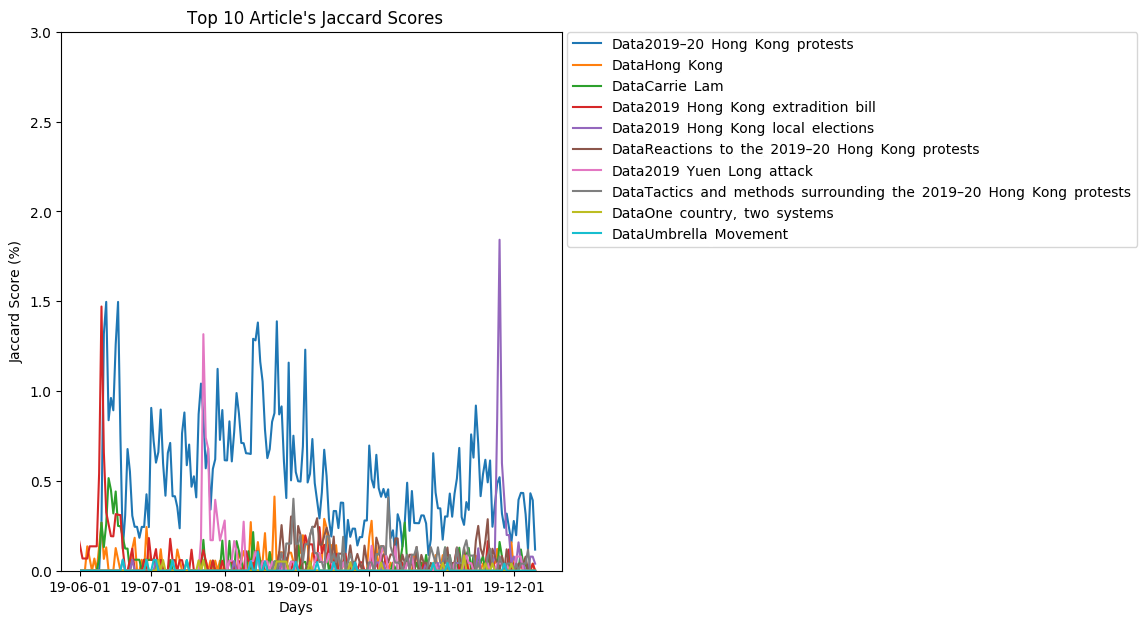
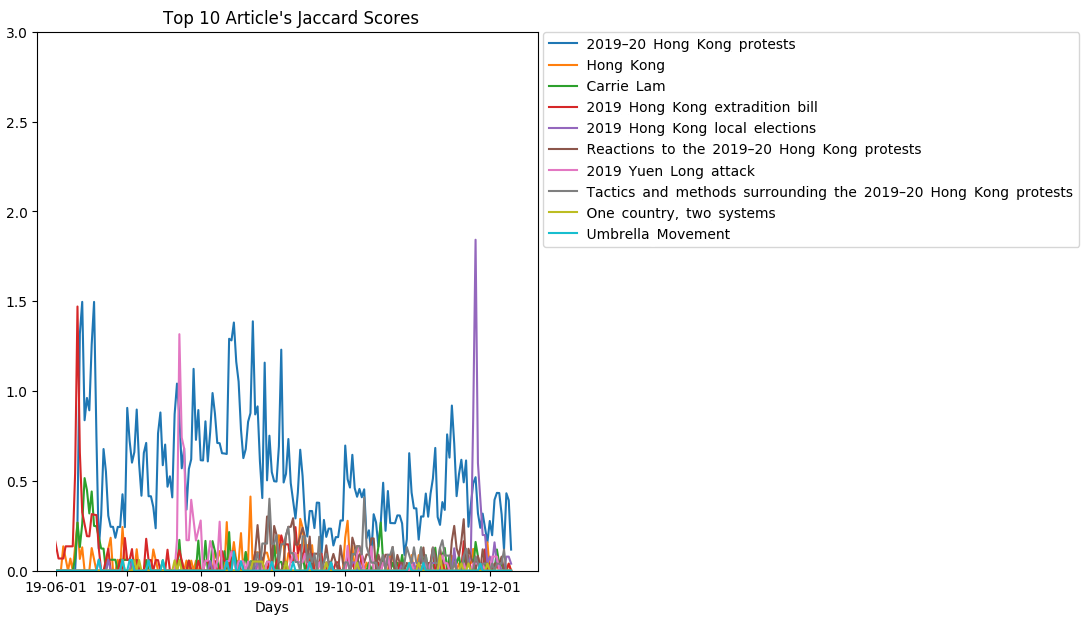
Added documentation to my files

diff --git a/jaccard.py b/jaccard.py
@@ -1,7 +1,7 @@
 
 '''
-    Plots Jaccard similarity of editors.
-
+    Plots Jaccard similarity multiline graph for Top 10 Articles.
+    Plots Jaccard similarity graph for a target article
     Written by Junyi Min.
 '''
 
@@ -89,6 +89,7 @@ for title in titleArray:
     if title[0:4] == "Data":
         dataTitleArray.append(title[:-4])
 
+#Makes multiline plot for jaccard similarity for Top 10 Articles
 def makeTop10Figures():
     for i in range (0, 10): #top ten articles is first 10 in the list
         title = dataTitleArray[i]
@@ -120,6 +121,7 @@ def makeTop10Figures():
         plt.savefig(os.path.join(plotPath, subpath, figureTitle + ".png"), bbox_inches="tight")
     plt.close()
 
+#Takes in an article title and returns a list of dates and its corresponding Jaccard score for the specific article
 def top10Helper(title):
     article = dataDict[title]
     firstDay = dt.fromtimestamp(int(time.mktime(dt.strptime("2019-05-01", "%Y-%m-%d").timetuple()))).date()
@@ -148,7 +150,7 @@ def top10Helper(title):
 
     return answer
 
-# test get next day epoch time
+# Makes jaccard score for a target article
 def makeDayXJaccardFigure(title):
     article = dataDict[title]
     firstDay = dt.fromtimestamp(int(time.mktime(dt.strptime("2018-12-10", "%Y-%m-%d").timetuple()))).date()
@@ -197,6 +199,10 @@ def makeDayXJaccardFigure(title):
         plt.savefig(os.path.join(plotPath, subpath, title + ".png"), bbox_inches="tight")
     plt.close()
 
+#Receives targetTitle, the target article's title, and returns a dictionary
+#Where the key is a date, and the value is the set of editors that edits in all
+#non-target articles on that date
+#Firstday and lastday represents the start and end of analysis for sanity check
 def returnAllOtherDict(targetTitle, firstDay, lastDay):
     allOtherDict = dict()
     #Setup
@@ -238,6 +244,11 @@ def returnAllOtherDict(targetTitle, firstDay, lastDay):
                     dailyEditorSet = set()
     return allOtherDict
 
+
+#Receives targetTitle, the target article's title, and returns a dictionary
+#Where the key is a date, and the value is the set of editors that edits in
+#the target article on that date.
+#Firstday and lastday represents the start and end of analysis for sanity check
 def returnTargetDict(article, firstDay, lastDay):
     dailyEditorSet = set()
     sizeOfArticle = article.shape[0]
@@ -274,6 +285,9 @@ def returnTargetDict(article, firstDay, lastDay):
             dailyEditorSet = set()
     return targetDict
 
+#Using the parameters, calculates the Jaccard score for the target articles
+#And returns a list of Jaccard score corresponding to the order of the dates in
+#input "days"
 def calculateAndPrintJaccard(days, targetDict, allOtherDict, firstDay, lastDay):
     jaccard = []
     jaccardAndEditor = [] #compiles a list of [date/jaccardScore/NumUniqueEditorsOfTargetArticle/NumUniqueEditorsOfOtherArticles] items
@@ -294,19 +308,7 @@ def calculateAndPrintJaccard(days, targetDict, allOtherDict, firstDay, lastDay):
         jaccardAndEditor.append(currItem)
         currItem = []
         setA = set()
-    #printPeaks(jaccardAndEditor, 10) #Finds top 10 peaks
     return jaccard
-
-
-def printPeaks(dataInput, num):
-    length = len(dataInput)
-    for i in range (length):
-        for j in range (0, length-i-1):
-            if dataInput[j][1]<dataInput[j+1][1]:
-                dataInput[j], dataInput[j+1] = dataInput[j+1], dataInput[j]
-    for i in range (0, 10):
-        print(dataInput[i])
-
 
 '''Testing below'''
 makeTop10Figures()

diff --git a/jaccard_editorpagecount.py b/jaccard_editorpagecount.py
@@ -1,6 +1,7 @@
 
 '''
-    Plots Jaccard editor similarity normalized for pages.
+    Plots Pagecount vs Number of Editors graph, with pagecount normalized (pagecount/active pages)
+    And Number of Editors log-transformed
 
     Written by Junyi Min.
 '''
@@ -133,21 +134,7 @@ def getEditorPagecount():
         item[1] = len(item[1])
     return resultList
 
-def printAveragePages():
-    sum = 0
-    resultList = getEditorPagecount()
-    size = len(resultList)
-    for item in resultList:
-        sum += item[1]
-    print(sum/size)
-
-def printMedianPages():
-    resultList = getEditorPagecount()
-    size = len(resultList)
-    size = int(size/2)
-    print(resultList[size])
-
-
+#Bubble sorts a list of dictionary pairs
 def bubbleSortList(dataInput):
     length = len(dataInput)
     for i in range (length):
@@ -156,6 +143,7 @@ def bubbleSortList(dataInput):
                 dataInput[j], dataInput[j+1] = dataInput[j+1], dataInput[j]
     return dataInput
 
+#Makes a multiline pagecount vs editors over time graph that is logtransformed
 def makeMultiLineGraph():
     data = getPlotData()
     print(data)
@@ -177,6 +165,9 @@ def makeMultiLineGraph():
         plt.savefig(os.path.join(plotPath, subpath, figureTitle + ".png"), bbox_inches="tight")
     plt.close()
 
+#Gets the data to plot in Editor/Pagecount graph
+#Returns xAxisElements: a list of pagecounts
+#And also yAxisElements: a list of number of editors that edit with that specific pagecount
 def getPlotData():
     list = getEditorPagecount()
     myDict = dict()
@@ -194,6 +185,7 @@ def getPlotData():
     returnVal = [xAxisElements, yAxisElements]
     return returnVal
 
+#Plots the number of editors that edit a certain amount of pages
 def makePagecountVSNumOfEditors():
     list = getEditorPagecount()
     myDict = dict()
@@ -231,12 +223,15 @@ def makePagecountVSNumOfEditors():
     if (not os.path.isfile(os.path.join(plotPath, subpath, figureTitle + ".png"))):
         plt.savefig(os.path.join(plotPath, subpath, figureTitle + ".png"), bbox_inches="tight")
     plt.close()
+
+#Log transforms a set of data
 def logTransform(data):
     returnData = []
     for item in data:
         returnData.append(math.log(item, 10))
     return returnData
 
+#Normalizes pagecount data by returning a list of data with pagecount divided by number of active articles
 def normalize(data, date):
     returnData = []
     for item in data:
@@ -273,8 +268,6 @@ endDate = dt.fromtimestamp(int(time.mktime(dt.strptime(end, "%Y-%m-%d").timetupl
 
 for i in range (0, 12):
     data = getPlotData()
-    print(data[0])
-    print(data[1])
     xAxis = normalize(data[0], endDate)
     yAxis = logTransform(data[1])
     plt.plot(xAxis, yAxis,graphColor[i],label= endDate)

diff --git a/corpus_unique_editors.py b/corpus_unique_editors.py
@@ -1,9 +1,9 @@
 '''
-    Plots unique editors aggregated across corpus???
-    (What is the diff b/t this and all_unique_editors.py?)
+    Plots unique editors aggregated across corpus
+    Plots monthly unique editors across corpus
 
 
-    Written by ???
+    Written by Junyi
 '''
 
 import pandas as pd
@@ -101,6 +101,7 @@ for title in titleArray:
     if title[0:4] == "Data":
         dataTitleArray.append(title[:-4])
 
+#Plots monthly unique editors over time
 def plotMonthly():
     data = returnData()
     monthlyDict = dict()
@@ -143,10 +144,7 @@ def plotMonthly():
         plt.savefig(os.path.join(plotPath, subpath, figureTitle + ".png"), bbox_inches="tight")
     plt.close()
 
-
-
-
-
+#Plots unique editors over time
 def plotAbsoluteOverTimeGraph():
     data = returnData()
     xAxisElements = []
@@ -220,9 +218,6 @@ startDate = dt.fromtimestamp(int(time.mktime(dt.strptime(start, "%Y-%m-%d").time
 endDate = dt.fromtimestamp(int(time.mktime(dt.strptime(end, "%Y-%m-%d").timetuple()))).date()
 
 plotMonthly()
-'''testing/making statistics below'''
-'''for title in dataTitleArray:
-    makeTimeXNumEditorsFigure(title)'''
 
 
 sys.exit(0)
